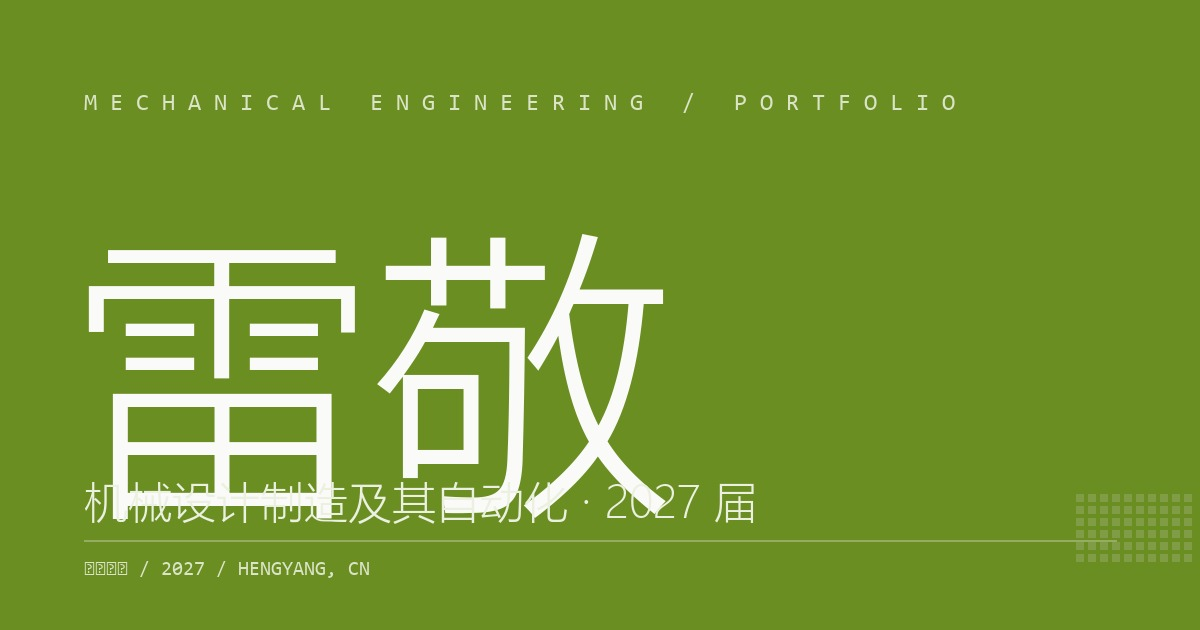
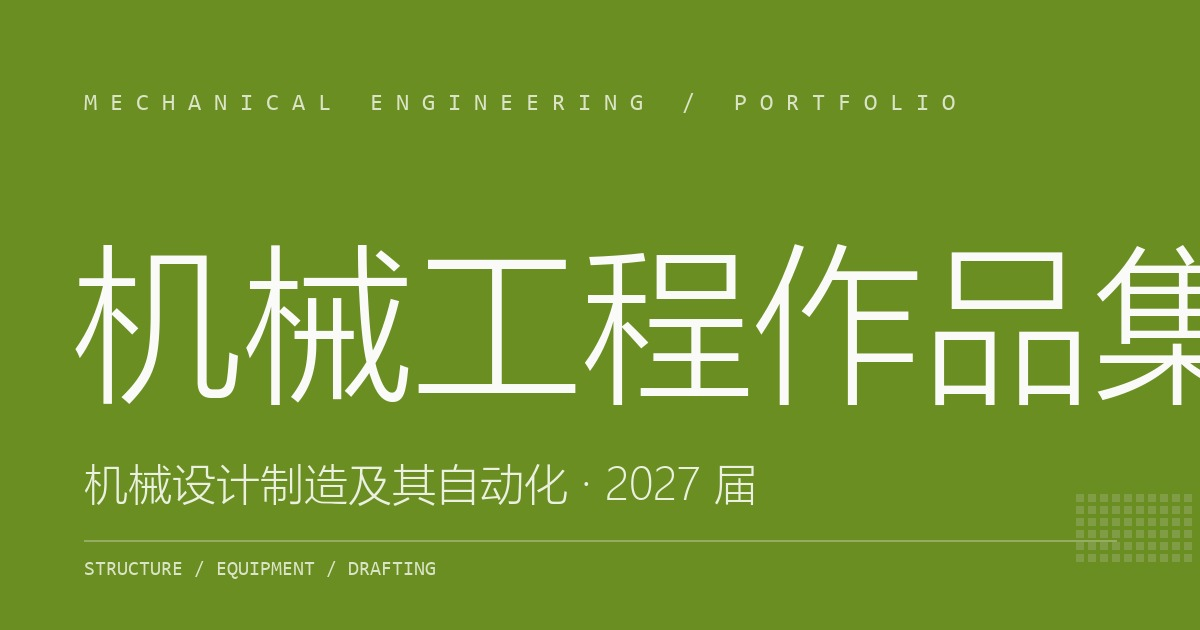
chore: 脱敏为占位版 - 移除真实姓名/学校/企业名与照片

Changed region(s): [[0.0617, 0.3619, 1.0, 0.8444], [0.0617, 0.8746, 0.37, 0.9349]]

diff --git a/index.html b/index.html
@@ -4,14 +4,14 @@
   <meta charset="utf-8">
   <meta name="viewport" content="width=device-width, initial-scale=1">
   <meta name="theme-color" content="#6B8E23">
-  <meta name="description" content="雷敬的机械工程作品集：机械设计、结构建模、工程制图与设备调试。">
-  <title>螺净一号 — 雷敬 · 机械工程作品集</title>
+  <meta name="description" content="机械工程作品集：机械设计、结构建模、工程制图与设备调试。">
+  <title>机械工程作品集 · Portfolio</title>
   <link rel="icon" href="assets/favicon.svg" type="image/svg+xml">
   <link rel="icon" href="assets/favicon32.png" type="image/png" sizes="32x32">
   <link rel="apple-touch-icon" href="assets/appletouchicon.png">
   <meta property="og:type" content="website">
-  <meta property="og:title" content="螺净一号 — 雷敬 · 机械工程作品集">
-  <meta property="og:description" content="南华大学机械设计制造及其自动化 · 2027 届。机械结构、工程制图与设备调试；两段设备/结构工程实习与在研创新项目。">
+  <meta property="og:title" content="机械工程作品集 · Portfolio">
+  <meta property="og:description" content="机械设计制造及其自动化 · 2027 届。机械结构、工程制图与设备调试；两段设备/结构工程实习与在研创新项目。">
   <meta property="og:image" content="assets/ogcover.jpg">
   <link rel="stylesheet" href="styles.css">
 </head>
@@ -29,18 +29,18 @@
 
   <main id="top">
 
-    <!-- S01 · Cover:橄榄绿满屏,文字摆放按原版纵向流(巨字→专业→lead→档案表→行动→标签) -->
+    <!-- S01 · Cover -->
     <section class="hero" aria-label="封面">
       <div class="wrap hero-grid">
         <div class="hero-copy">
           <p class="kicker kicker-on-accent">MECHANICAL ENGINEERING · 2027</p>
-          <h1 class="hero-title" data-anim="hero"><span class="w">雷</span><span class="w it">敬</span><br><span class="w hero-major">机械设计制造及其自动化</span></h1>
-          <p class="hero-lead">南华大学本科生 · 2027 届。关注机械结构、设备运行与制造落地之间的连接。</p>
+          <h1 class="hero-title" data-anim="hero"><span class="w">姓</span><span class="w it">名</span><br><span class="w hero-major">机械设计制造及其自动化</span></h1>
+          <p class="hero-lead">某某大学本科生 · 2027 届。关注机械结构、设备运行与制造落地之间的连接。</p>
           <div class="profile-facts" aria-label="个人基本信息">
-            <div><span>学校</span><strong>南华大学</strong></div>
+            <div><span>学校</span><strong>某某大学</strong></div>
             <div><span>学历</span><strong>本科</strong></div>
             <div><span>毕业届次</span><strong>2027 届</strong></div>
-            <div><span>英语四级</span><strong>500 分</strong></div>
+            <div><span>英语四级</span><strong>—</strong></div>
             <div><span>计算机</span><strong>全国计算机等级考试二级</strong></div>
           </div>
           <div class="hero-actions">
@@ -51,9 +51,9 @@
         </div>
         <div class="hero-visual">
           <div class="visual-frame">
-            <div class="visual-topline"><span>PROFILE / 01</span><span>HENGYANG, CN</span></div>
-            <div class="visual-img"><img src="assets/portrait.jpg" alt="雷敬的职业形象照"></div>
-            <div class="visual-caption"><span class="cap-name">雷敬</span><span class="cap-role">机械工程 · 结构与设备</span></div>
+            <div class="visual-topline"><span>PROFILE / 01</span><span>LOCATION, CN</span></div>
+            <div class="visual-img"><img src="assets/portrait.jpg" alt="个人形象照占位图"></div>
+            <div class="visual-caption"><span class="cap-name">姓名</span><span class="cap-role">机械工程 · 结构与设备</span></div>
             <svg class="hero-stamp" viewBox="0 0 100 100" aria-hidden="true">
               <circle cx="50" cy="50" r="47.5" fill="none" stroke="currentColor" stroke-width="1"/>
               <text x="50" y="36" text-anchor="middle" font-family="Consolas, monospace" font-size="13" letter-spacing="1" fill="currentColor">DESIGN</text>
@@ -74,7 +74,7 @@
       </div>
     </section>
 
-    <!-- S20 · Stacked KPI Ledger:数据账单（真实数字，不虚构比例） -->
+    <!-- S20 · Stacked KPI Ledger -->
     <section id="stats" class="sec sec-paper" aria-label="关键数据">
       <div class="wrap">
         <div class="sec-head">
@@ -84,7 +84,7 @@
         <div class="ledger" data-anim="ledger">
           <div class="ledger-row">
             <span class="ledger-num"><b data-count="2027">0</b></span>
-            <span class="lbl">届本科毕业生<small>CLASS OF 2027 · 南华大学</small></span>
+            <span class="lbl">届本科毕业生<small>CLASS OF 2027 · 某某大学</small></span>
             <span class="mono-meta">GRAD.</span>
           </div>
           <div class="ledger-row">
@@ -94,31 +94,31 @@
           </div>
           <div class="ledger-row">
             <span class="ledger-num"><b data-count="1">0</b></span>
-            <span class="lbl">项在研机械创新项目<small>螺净一号 · 学生创新训练</small></span>
+            <span class="lbl">项在研机械创新项目<small>创新训练项目 · 进行中</small></span>
             <span class="mono-meta">PROJ.</span>
           </div>
         </div>
       </div>
     </section>
 
-    <!-- S15 · Image Matrix:两段实习,统一 16:10 直角图 + 14px mono 图注 -->
+    <!-- S15 · Image Matrix -->
     <section id="experience" class="sec sec-paper" aria-label="实习经历">
       <div class="wrap">
         <div class="sec-head">
           <p class="kicker">FIELD EXPERIENCE / 2025—2026</p>
           <h2 class="sec-title">在现场，<br>理解设备<span class="it">如何工作</span>。</h2>
-          <p class="sec-note">两段实习让我分别接触结构图纸与产线设备，建立从设计交付到运行维护的初步经验。配图取自企业公开页面，用于呈现行业环境，不代表个人实习现场。</p>
+          <p class="sec-note">两段实习让我分别接触结构图纸与产线设备，建立从设计交付到运行维护的初步经验。</p>
         </div>
 
         <div class="exp-grid" data-anim="matrix">
           <article class="exp-card">
             <figure class="fig">
-              <img src="assets/minshengscene3.webp" alt="民生健康企业公开场景照片">
+              <img src="assets/scene01.webp" alt="企业场景占位图">
             </figure>
-            <figcaption class="figcap">FIG.02 — 杭州民生健康 · 企业公开场景</figcaption>
+            <figcaption class="figcap">FIG.02 — 企业 A · 场景占位</figcaption>
             <div class="exp-body">
               <p class="exp-when"><i class="sq" aria-hidden="true"></i>2026.07 — 09</p>
-              <h3>杭州民生健康有限公司</h3>
+              <h3>某医药健康企业</h3>
               <p class="exp-role">设备工程师实习 · 医药健康 / 药品与健康食品研发制造</p>
               <ul>
                 <li>依据设备运行逻辑参与编写 SOP，规范产线操作流程。</li>
@@ -127,17 +127,16 @@
               </ul>
               <p class="mono-meta exp-tags">设备调试 · SOP · PLC 配合调试</p>
             </div>
-            <a class="exp-src mono-meta" href="https://www.hzmsjk.com/index.html" target="_blank" rel="noreferrer">图片来源 ↗</a>
           </article>
 
           <article class="exp-card">
             <figure class="fig">
-              <img src="assets/tellhowscene1.jpg" alt="泰豪衡阳园区公开照片">
+              <img src="assets/scene02.jpg" alt="企业场景占位图">
             </figure>
-            <figcaption class="figcap">FIG.03 — 衡阳泰豪 · 园区公开照片</figcaption>
+            <figcaption class="figcap">FIG.03 — 企业 B · 场景占位</figcaption>
             <div class="exp-body">
               <p class="exp-when"><i class="sq" aria-hidden="true"></i>2025.12 — 2026.06</p>
-              <h3>衡阳泰豪通信车辆有限公司</h3>
+              <h3>某特种车辆企业</h3>
               <p class="exp-role">结构工程师实习 · 特种车辆 / 车载通信系统与方舱</p>
               <ul>
                 <li>绘制结构件零件图、总装图，并建立三维装配模型。</li>
@@ -146,13 +145,12 @@
               </ul>
               <p class="mono-meta exp-tags">结构建模 · 工程图 · 外购件选型</p>
             </div>
-            <a class="exp-src mono-meta" href="https://www.tellhow.cn/about/Construction.html" target="_blank" rel="noreferrer">图片来源 ↗</a>
           </article>
         </div>
       </div>
     </section>
 
-    <!-- S11 · Horizontal Timeline:螺净一号处理流程 -->
+    <!-- S11 · Horizontal Timeline -->
     <section class="sec sec-grey" aria-label="项目流程">
       <div class="wrap">
         <div class="sec-head">
@@ -169,8 +167,8 @@
       </div>
     </section>
 
-    <!-- S15 变体 · 21:9 大图 + 左侧文案 -->
-    <section id="work" class="sec sec-paper" aria-label="螺净一号项目">
+    <!-- S15 变体 · 21:9 大图 -->
+    <section id="work" class="sec sec-paper" aria-label="项目展示">
       <div class="wrap">
         <div class="sec-head">
           <p class="kicker">SELECTED WORK / 03</p>
@@ -178,14 +176,14 @@
         </div>
         <article class="work-grid">
           <figure class="fig fig-wide" data-anim="zoom">
-            <img src="assets/prototype01.jpg" alt="螺净一号样机整体实拍：型材机架、透明清洗舱和机械结构">
+            <img src="assets/prototype01.jpg" alt="样机占位图">
           </figure>
-          <figcaption class="figcap">FIG.04 — 螺净一号样机 · 型材机架与透明防护 / 学生创新训练项目 · 进行中 2026—2027</figcaption>
+          <figcaption class="figcap">FIG.04 — 样机 · 型材机架与透明防护 / 学生创新训练项目 · 进行中 2026—2027</figcaption>
 
           <div class="work-copy" data-anim="stack">
-            <h3>螺净一号</h3>
-            <p class="work-sub">基于切削与超声波协同的田螺水平去尾清洗一体机</p>
-            <p class="work-desc">针对田螺加工中清洗、定位和去尾分散的问题，团队设计一套连续化处理方案：清洗舱完成浸洗，输送与定位机构将物料送至切削工位，再由刀片完成去尾。样机采用型材机架与透明防护，便于观察机构动作和开展调试。</p>
+            <h3>创新训练项目</h3>
+            <p class="work-sub">基于切削与超声波协同的水平去尾清洗一体机</p>
+            <p class="work-desc">针对加工中清洗、定位和去尾分散的问题，团队设计一套连续化处理方案：清洗舱完成浸洗，输送与定位机构将物料送至切削工位，再由刀片完成去尾。样机采用型材机架与透明防护，便于观察机构动作和开展调试。</p>
             <div class="work-facts">
               <p><b>01</b>功能分解 — 清洗、移送、切削分模块，减少工序间的人工搬运。</p>
               <p><b>02</b>机构协同 — 围绕滚筒、刀片与推送机构梳理动作节拍和空间关系。</p>
@@ -201,7 +199,7 @@
       </div>
     </section>
 
-    <!-- S13 · Three Forces:左 ink 块 + 右灰底卡组 -->
+    <!-- S13 · Three Forces -->
     <section id="skills" class="sec sec-paper" aria-label="能力与工具">
       <div class="split">
         <div class="split-ink" data-anim="slide">
@@ -238,7 +236,7 @@
       </div>
     </section>
 
-    <!-- S03 · Split Statement:左黑右白对开 -->
+    <!-- S03 · Split Statement -->
     <section id="about" class="sec sec-grey" aria-label="关于我">
       <div class="split split-soft">
         <div class="split-ink" data-anim="rise">
@@ -253,14 +251,14 @@
       </div>
     </section>
 
-    <!-- S10 · Closing:半屏 IKB + 白底三条 takeaway -->
+    <!-- S10 · Closing -->
     <section id="contact" class="closing" aria-label="结语与联系">
       <div class="split split-closing">
         <div class="split-accent" data-anim="rise">
           <p class="kicker kicker-on-accent">CLOSING / 05</p>
           <h2 class="split-title">从图纸到现场，<br>把方案做成<span class="it">实物</span>。</h2>
           <p class="split-note">期待在真实的工程问题中继续学习与成长。</p>
-          <p class="mono-meta closing-meta">LEI JING · 2026 / 联系方式随简历提供</p>
+          <p class="mono-meta closing-meta">PORTFOLIO · 2026 / 联系方式随简历提供</p>
         </div>
         <div class="split-paper split-takeaways" data-anim="stack">
           <p class="mono-meta takeaways-head">TAKEAWAYS — 03 RULES</p>
@@ -272,7 +270,7 @@
           <div class="take">
             <p class="mono-meta tk-num">02</p>
             <h4>团队协作</h4>
-            <p>以负责人身份与团队完成螺净一号从方案到样机的验证。</p>
+            <p>以负责人身份与团队完成项目从方案到样机的验证。</p>
           </div>
           <div class="take tk-hl">
             <p class="mono-meta tk-num">03</p>
@@ -286,16 +284,16 @@
 
   <footer class="site-foot">
     <div class="wrap foot-row">
-      <a class="brand" href="#top"><span class="brand-mark">LJ</span><span>雷敬 · 机械工程作品集</span></a>
+      <a class="brand" href="#top"><span class="brand-mark">LJ</span><span>机械工程作品集</span></a>
       <a href="#top" class="mono-meta">回到顶部 ↑</a>
-      <small class="mono-meta">© 2026 LEI JING · PORTFOLIO / SWISS INTL. STYLE</small>
+      <small class="mono-meta">© 2026 PORTFOLIO / SWISS INTL. STYLE</small>
     </div>
   </footer>
 
   <dialog class="lightbox" aria-label="项目照片预览">
     <button class="lb-close" type="button" aria-label="关闭图片预览">×</button>
     <button class="lb-prev" type="button" aria-label="上一张">←</button>
-    <img src="assets/prototype01.jpg" alt="田螺去尾清洗一体机样机照片">
+    <img src="assets/prototype01.jpg" alt="样机照片占位图">
     <button class="lb-next" type="button" aria-label="下一张">→</button>
     <p class="mono-meta">样机照片 <span class="lb-counter">1 / 3</span></p>
   </dialog>

diff --git a/README.md b/README.md
@@ -1,14 +1,16 @@
-# 雷敬 · 机械工程作品集
+# 机械工程作品集 · Portfolio
 
 瑞士国际主义风格（Swiss International Style）单页作品集，纯静态 HTML/CSS/JS，无构建、无依赖。
 
+> **当前为占位版**：页面中的姓名、学校、企业名称与照片均已替换为中性占位内容，用于公开预览版式与交互效果。
+
 ## 内容结构
 
-- **首屏**：姓名、专业、学校/学历/届次/四级/计算机二级档案表、肖像照、行动入口
+- **首屏**：姓名、专业、学校/学历/届次档案表、肖像照、行动入口
 - **数据速览**：2027 届 / 2 段工程实习 / 1 项在研创新项目
-- **实习经历**：杭州民生健康（设备工程师）、衡阳泰豪通信车辆（结构工程师）
-- **项目流程**：螺净一号四步闭环（进料 → 清洗 → 定位输送 → 切尾排料）
-- **作品**：螺净一号 —— 基于切削与超声波协同的田螺水平去尾清洗一体机
+- **实习经历**：两段工程实习（设备工程师 / 结构工程师）
+- **项目流程**：四步闭环（进料 → 清洗 → 定位输送 → 切尾排料）
+- **作品**：基于切削与超声波协同的水平去尾清洗一体机
 - **能力**：三维设计 / 工程制图 / 设计表达 / 机械基础
 - **关于**：自我评价
 - **结语**：三条 takeaway
@@ -26,7 +28,7 @@
 1. 仓库 Settings → Pages
 2. Source 选择 `Deploy from a branch`
 3. Branch 选 `main`，目录选 `/ (root)`
-4. 保存后等待约 1 分钟，访问 `https://<用户名>.github.io/<仓库名>/`
+4. 保存后等待约 1 分钟，访问 **https://daotu-123.github.io/leijing/**
 
 ## 设计规范
 
@@ -38,4 +40,4 @@
 
 ## 素材说明
 
-企业场景照片与公司标识取自两家企业官网公开页面，仅用于呈现行业环境，不代表个人实习现场，页面内已标注来源链接。项目照片为团队协作成果，个人身份为项目负责人。
+当前所有图片均为程序生成的灰色占位图，不含任何真实照片。恢复真实内容时需替换 `assets/` 下的同名文件。
